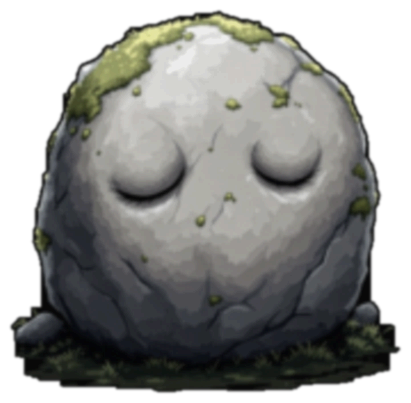
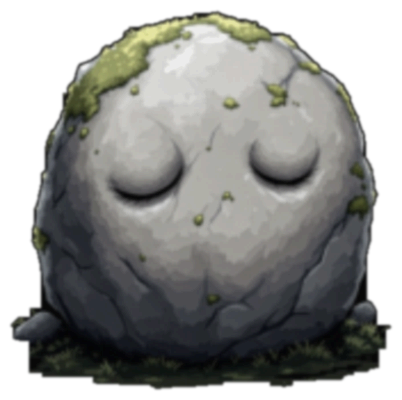
Troll rockface: use #4, feather the flat base into the soil + fix cutout
Owner picked #4 (soft sad-face boulder). Two fixes:
- Adaptive cutout: FLUX ignored 'pure black background' on some variants and
  rendered a grey backdrop, which the fixed luma threshold (T=13) treated as
  foreground -> the whole sprite came out opaque (dark rectangle in-game). The
  cutout now samples the corner luminance and keys just above it, so grey or
  black backdrops both separate cleanly.
- Bottom feather (scripts/feather_bottom.py): fade the lower ~30% of the alpha
  to transparent so the rock's flat base dissolves into the soil instead of
  resting on a hard edge. #4 live at start=0.70.
Dropped variants #5/#6 (FLUX gave them white/grey backgrounds that can't be
luma-keyed; they were the weakest options anyway).

Claude-Session: https://claude.ai/code/session_01CgGUkw5aUKtUAGfWeZXo2s

diff --git a/dist/artifact.html b/dist/artifact.html
@@ -1484,8 +1484,8 @@
 <div id="ui"></div>
 <script>
 'use strict';
-window.__ASSET_VER = "1psuzhk";
-globalThis.__BUILD__ = "local 07-24 19:28";
+window.__ASSET_VER = "dau2a7";
+globalThis.__BUILD__ = "local 07-24 21:17";
 
 // ===================== src/config.js =====================
 const __m_config = (function () {

diff --git a/dist/index.html b/dist/index.html
@@ -1490,8 +1490,8 @@
 <div id="ui"></div>
 <script>
 'use strict';
-window.__ASSET_VER = "1psuzhk";
-globalThis.__BUILD__ = "local 07-24 19:28";
+window.__ASSET_VER = "dau2a7";
+globalThis.__BUILD__ = "local 07-24 21:17";
 
 // ===================== src/config.js =====================
 const __m_config = (function () {

diff --git a/scripts/gen_troll_rock2.py b/scripts/gen_troll_rock2.py
@@ -85,13 +85,20 @@ def _dil(m,it):
 def _ero(m,it):
     for _ in range(it): m=m.filter(ImageFilter.MinFilter(5))
     return m
-def cutout(im, dest, T=13, pad=8, feather=1.2, close=9):
+def cutout(im, dest, T=None, pad=8, feather=1.2, close=9, margin=22):
     im = im.convert("RGB"); w,h = im.size
-    lp = im.convert("L").load()
+    L = im.convert("L"); lp = L.load()
+    # ADAPTIVE threshold: FLUX doesn't always honour "pure black background" — sometimes it
+    # renders a mid-grey backdrop. Sample the corner luminance and key just above it, so the
+    # cutout works whether the bg is near-black (~8) or grey (~60). A fixed low T would treat
+    # a grey backdrop as foreground and leave the whole image opaque.
+    corners = [lp[3,3], lp[w-4,3], lp[3,h-4], lp[w-4,h-4]]
+    corners.sort(); bg_lum = corners[1]              # median-ish of the 4 corners
+    Teff = (bg_lum + margin) if T is None else T
     fg = Image.new("L",(w,h),0); fp=fg.load()
     for y in range(h):
         for x in range(w):
-            if lp[x,y] > T: fp[x,y]=255
+            if lp[x,y] > Teff: fp[x,y]=255
     fg = _ero(_dil(fg,close),close)
     work = fg.copy(); wl=work.load()
     seeds=[(1,1),(w-2,1),(1,h-2),(w-2,h-2),(w//2,1),(w//2,h-2),(1,h//2),(w-2,h//2)]

diff --git a/scripts/feather_bottom.py b/scripts/feather_bottom.py
@@ -1,0 +1,19 @@
+#!/usr/bin/env python3
+# Fade the bottom N% of a cutout's alpha to transparent so a rock's flat base dissolves
+# into the soil instead of sitting on a hard edge. Usage: feather_bottom.py IN OUT [start]
+import sys
+from PIL import Image
+def feather(src, dest, start_frac=0.70, ease=1.0):
+    im = Image.open(src).convert("RGBA"); w, h = im.size
+    r, g, b, a = im.split(); ap = a.load()
+    start = int(h * start_frac)
+    for y in range(start, h):
+        t = (y - start) / max(1, (h - start)); fac = (1.0 - t) ** ease
+        for x in range(w):
+            ap[x, y] = int(ap[x, y] * fac)
+    Image.merge("RGBA", (r, g, b, a)).save(dest, "PNG")
+if __name__ == "__main__":
+    src = sys.argv[1]; dest = sys.argv[2]
+    start = float(sys.argv[3]) if len(sys.argv) > 3 else 0.70
+    feather(src, dest, start)
+    print(f"feathered {src} -> {dest} (start={start})")
